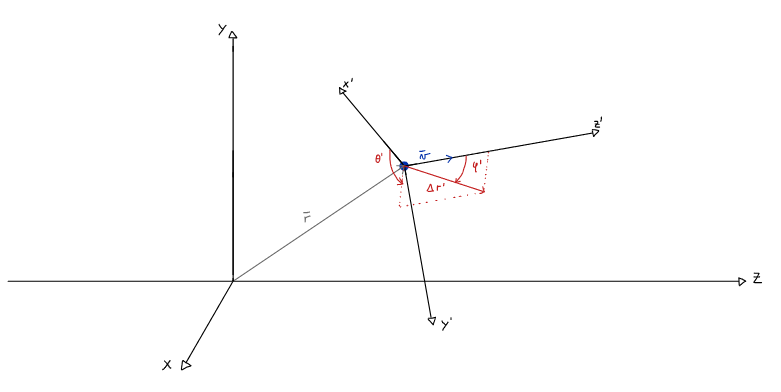
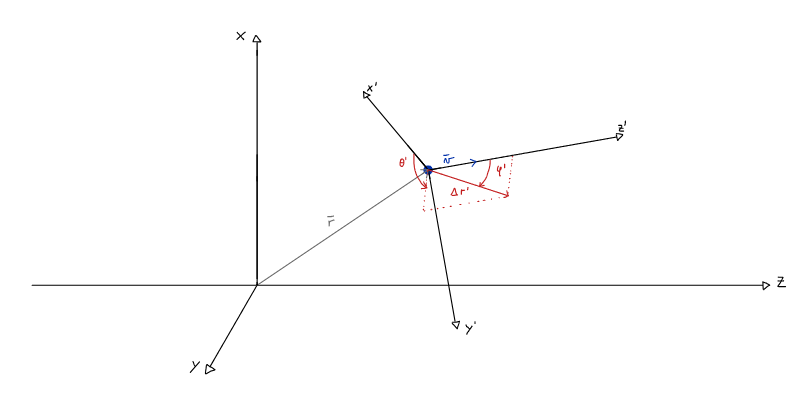
Added explanations in Electron_Beam.md, clarifying comments in files and fixed possible floating point error

diff --git a/ElectronBeam/Electron_Beam.md b/ElectronBeam/Electron_Beam.md
@@ -1,0 +1,92 @@
+# Electron Beam Simulation
+
+This code simulates an electron beam as detailed in: _Angulo D., Saenz W., Murillo M, “Simulación de la trayectoria de un haz de electrones en un sólido usando el método de Monte Carlo”, (2016)_. The code is implemented in Fortran and allows for a double layer system.
+
+## Input
+
+All input parameters must be specified in the 'input.nml' file, though default values are used if not specified. An example is provided in [input.nml](./input.nml). Said input contains three sections:
+- _&physical_ - specifies the physically relevant information in the system
+- _&calculation_ - specifies the calculation's parameters
+- _&tasks_ - specifies the additional tasks (only _track_trajectories_ currently available)
+
+
+### _&physical_ parameters
+- _bulk_material_ - specifies the bulk material (default: 'C')
+- _ray_tilt_ - specifies the incident angle of the electron beam (default: 0)
+- _E_min_ - specifies the minimum energy (in KeV) to be considered (default: 0.5)
+- _E_max_ - specifies the initial electron's energy (in KeV, default: 30)
+- _covering_ - specifies whether a covering material is to be used (default: .false.)
+- _surface_material_ - specifies the covering material (default: 'Au')
+- _covering_thickness_ - specifies the thickness of the covering material (default: 2e-6)
+
+### _&calculation_ parameters
+- _Num_electrons_ - specifies the number of electrons to be considered (default: 1000)
+- _Num_trajectories_ - specifies the number of individual electron's trajectories to be saved (will be discounted from _Num_electrons_). _track_trajectories_ must be set to .true. in the _&tasks_ section for this parameter to be considered.
+- _BSE_tol_ - specifies the tolerance in the z-coordinate of Backsacterred Electrons (BSE). Must be greater than 0 if backscattered electron's trajectories are to be saved (default: 0).
+
+## Program logic
+The main program goes through a simple loop in the number of electrons:
+- Initialization: initialize all relevant physical and computational details
+- Random Step: make a random step
+- Update variables: position and energy
+- Check conditions: if the energy is beneath the minimum threshold or the z-coordinate is beyond the one specified by _BSE_tol_ the calculation for that electron stops (adding 1 to the number of BSE if the second condition was satisfied).
+
+The only calculations are done in the Random Step and detailed next.
+
+### Random Step
+In order to choose a random step, three variables must be specified. In spherical coordinates these are: step length ($r$), azimuthal scattering angle ($\theta$) and polar scattering angle ($\varphi$). The step length is given by $−\lambda ln(RND)$. The polar scattering angle is sampled from a uniform distribution $\mathcal{U}(0,2\pi)$. The azimuthal scattering angle is determined by: $cos(\varphi) = 1 −
+\frac{2αRND}{1 + α − RND}$. The constants $\lambda$ and $\alpha$ depend on the materials chosen.
+
+In order to take into account the electron's current position and velocity, we select the random step in its coordinate system, such that its velocity (last random step direction) is aligned with the $z'$ coordinate axis. Then, using direction cosines and well Rodrigues' rotation formula (in spherical coordinates) we rotate it back to the original frame of reference and update the coordinates (avoiding matrix multiplication). A sketch of the idea is presented below.
+
+![scattering angles](./scattering_angles.png)
+
+The rotaion employed is given by:
+```math
+    \frac{\Delta \vec{r'}}{|\Delta \vec{r'}|}
+    =
+    \cos(\varphi')
+    \frac{\vec{v}}{|\vec{v}|}
+    +
+    \sin(\varphi')
+    (\vec{u_1} + \vec{u_2})
+```
+Where:
+- $\frac{\vec{v}}{|\vec{v}|}$ is the previous random step unit vector (i.e. the direction of the electron's velocity) in the unprimed coordinate system.
+- $\frac{\Delta \vec{r'}}{|\Delta \vec{r'}|}$ is the current random step direction  in the unprimed coordinate system.
+- $\theta'$ is the azimuthal angle in the primed coordinate system.
+- $\varphi'$ is the polar (scattering) angle in the primed coordinate system.
+- $\vec{u_2}, \vec{u_2}$ are unit vectors perpendicular to each other and to \frac{\vec{v}}{|\vec{v}|}, forming a right-hand basis.
+
+In our specific implementation we select $\hat{z}' = \frac{\vec{v}}{|\vec{v}|} = (c_x,c_y,c_z)$ and $\hat{x}' = \frac{\hat{z}'\times\hat{y}}{|\hat{z}'\times\hat{y}|}$ which leads directly to:
+
+```math
+    \begin{cases}
+      \hat{z}' = \frac{\vec{v}}{|\vec{v}|}\\
+      \hat{x}' = \frac{1}{\sqrt{c_x^2 + c_z^2}}(c_x, 0,-c_z)\\
+      \hat{x}' = \frac{1}{\sqrt{c_x^2 + c_z^2}}(-c_yc_z, 2c_xc_z,-c_yc_x)
+    \end{cases}\,
+```
+Finally, taking $U_1 = \frac{-c_zsin(\varphi')}{\sqrt{c_x^2 + c_z^2}}$, $U_2 = \frac{c_xsin(\varphi')}{\sqrt{c_x^2 + c_z^2}}$ and $\frac{\Delta \vec{r'}}{|\Delta \vec{r'}|} = (c_a, c_b, c_c)$ the rotation formula in matrix form becomes:
+```math
+\begin{bmatrix}
+c_a \\
+c_b \\
+c_c
+\end{bmatrix}
+=
+\cos(\varphi')
+\begin{bmatrix}
+c_x \\
+c_y \\
+c_z
+\end{bmatrix}
++
+\begin{bmatrix}
+U_1 \cos(\theta') + c_y U_2 \sin(\theta') \\
+\sin(\theta')(c_z U_1 - c_x U_2) \\
+U_2 \cos(\theta') - c_y U_1 \sin(\theta')
+\end{bmatrix}
+```
+
+The intermediate steps are left as an exercise. Note that the velocity might lie entirely in the $\hat{y}$ direction, which would cause issues. In such a case, one may select a different base, starting with $\hat{x}' = \frac{\hat{z}'\times\hat{x}}{|\hat{z}'\times\hat{x}|}$ and proceeding in an analogous fashion. Then the program must distinguish which case is more appropriate for a given instance and calculate accordingly.
